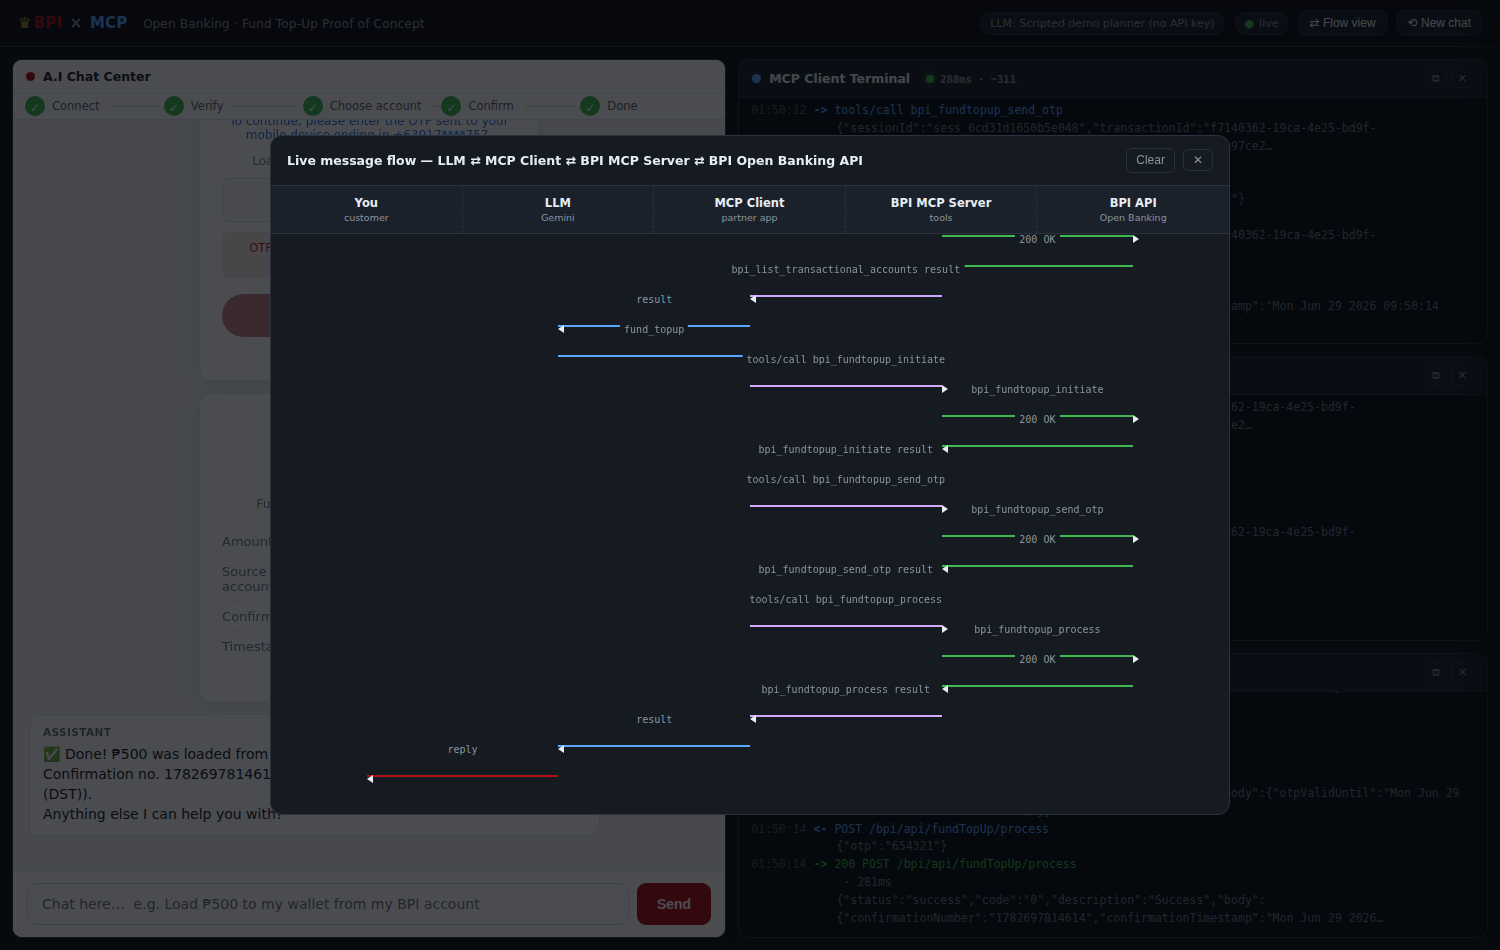
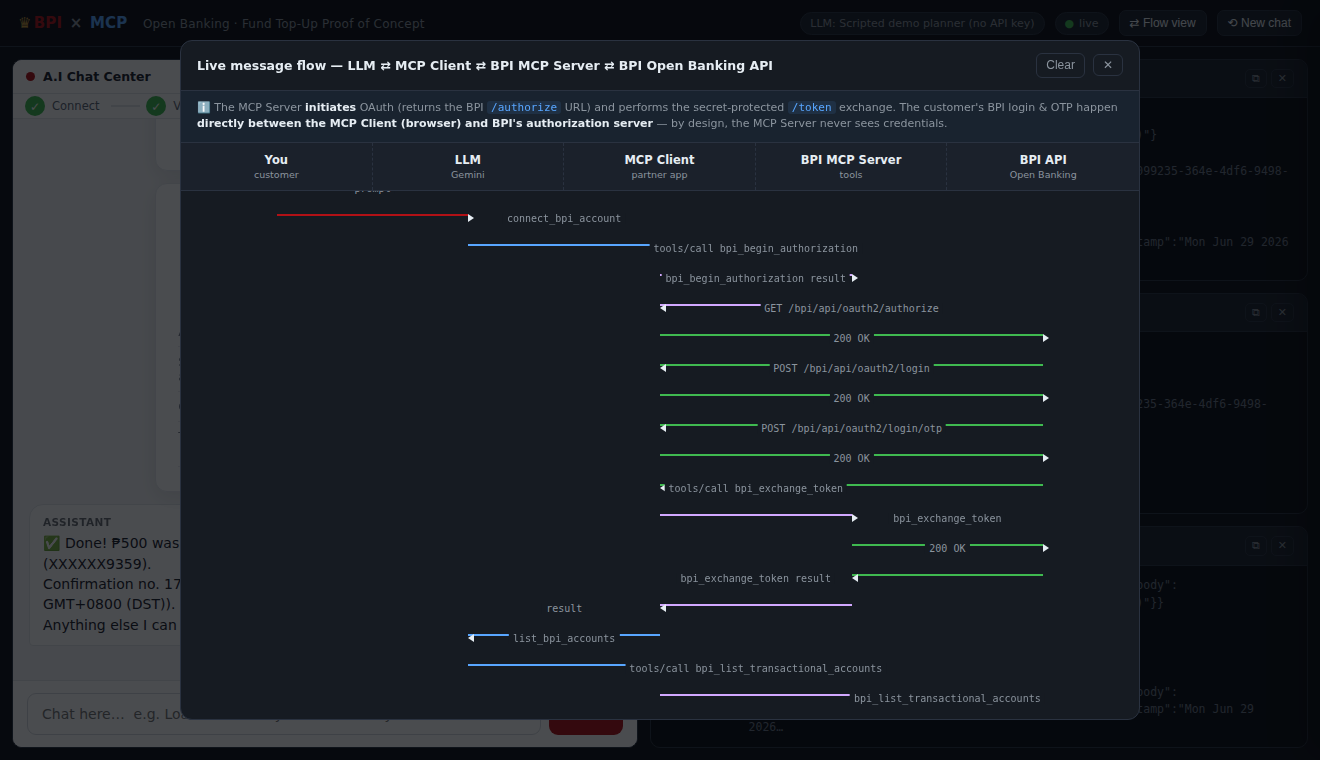
Have the MCP server initiate OAuth (bpi_begin_authorization) + flow-view note
Addresses the question of why login bypassed the MCP server. Now:
- New MCP tool bpi_begin_authorization: the BPI MCP server (owner of
  client_id/scopes) returns the hosted /authorize URL, so the OAuth handshake
  visibly starts at the server in the sequence diagram.
- The customer's login + OTP still go directly Client⇄BPI (the server never
  sees credentials), and the secret-protected code→token exchange stays
  server-side — aligning with the MCP authorization model.
- Flow view gains an explanatory note describing this split.
- README architecture updated; flow-view screenshot refreshed to show the
  OAuth initiation.

Claude-Session: https://claude.ai/code/session_01A6iezZkqvv1e5yNwwgcSss

diff --git a/server/orchestrator.js b/server/orchestrator.js
@@ -81,7 +81,7 @@ const pace = () => (PACE_MS > 0 ? sleep(PACE_MS) : Promise.resolve());
 
 // One MCP tool call, with both sides narrated on the MCP Client terminal and
 // mirrored as arrows on the live sequence diagram.
-async function mcpCall(ws, name, args) {
+async function mcpCall(ws, name, args, { apiHop = true } = {}) {
   await pace();
   const t0 = Date.now();
   log(CHANNELS.MCP_CLIENT, { level: 'req', dir: '->', text: `tools/call ${name}`, data: redactArgs(args) });
@@ -89,9 +89,12 @@ async function mcpCall(ws, name, args) {
   const res = await mcp.callTool({ name, arguments: args });
   const payload = JSON.parse(res.content?.[0]?.text || '{}');
   const ms = Date.now() - t0;
-  // Each of these MCP tools maps 1:1 to one upstream Open Banking API call.
-  flow(ws, 'SERVER', 'API', name);
-  flow(ws, 'API', 'SERVER', res.isError ? 'error' : '200 OK');
+  // Most BPI MCP tools map 1:1 to one upstream Open Banking API call; a few
+  // (e.g. bpi_begin_authorization) only build/return data and hit no API.
+  if (apiHop) {
+    flow(ws, 'SERVER', 'API', name);
+    flow(ws, 'API', 'SERVER', res.isError ? 'error' : '200 OK');
+  }
   if (res.isError) {
     log(CHANNELS.MCP_CLIENT, { level: 'err', dir: '<-', text: `tools/call ${name} error`, data: payload, ms });
     flow(ws, 'SERVER', 'CLIENT', 'error');
@@ -270,17 +273,24 @@ function runTool(ws, name, args) {
 
 async function connectBpi(ws) {
   if (ws.state.connected) { markConnectedSteps(ws); return { status: 'already_connected', scope: ws.state.scope }; }
-  const scope = 'transactionalAccountsForBillsPay fundTopUp';
   const state = crypto.randomBytes(12).toString('hex');
   step(ws, 'connect', 'active');
 
-  // Front-channel: the partner app opens BPI's hosted /authorize (login) page.
-  log(CHANNELS.MCP_CLIENT, { level: 'info', text: 'OAuth: opening BPI /authorize (front-channel browser)…' });
-  await bpiFront(ws, 'GET', `/bpi/api/oauth2/authorize?response_type=code&client_id=${process.env.BPI_CLIENT_ID || 'a3f7832f-0f15-46e2-9070-29e6e89f2c2e'}&scope=${encodeURIComponent(scope)}&redirect_uri=https://partner.example/callback&state=${state}`);
+  // The MCP server owns the client_id + scopes and initiates the OAuth handshake:
+  // it returns the hosted BPI /authorize URL for the partner app to open.
+  const authz = await mcpCall(ws, 'bpi_begin_authorization', { state }, { apiHop: false });
+  const scope = authz.scope;
+
+  // Front-channel: the partner app opens that /authorize URL in a browser. The
+  // customer's credentials/OTP are entered on BPI's page — the MCP server never
+  // sees them.
+  log(CHANNELS.MCP_CLIENT, { level: 'info', text: 'OAuth: opening BPI /authorize URL from MCP server (front-channel browser)…' });
+  const u = new URL(authz.authorizeUrl);
+  await bpiFront(ws, 'GET', u.pathname + u.search);
 
   // Screen 1: BPI login.
   const creds = await askUI(ws, 'login', { partner: PARTNER, scope });
-  const login = await bpiFront(ws, 'POST', '/bpi/api/oauth2/login', { username: creds.username, password: creds.password, scope, state });
+  const login = await bpiFront(ws, 'POST', '/bpi/api/oauth2/login', { username: creds.username, password: creds.password, scope, state: authz.state });
   step(ws, 'connect', 'done');
 
   // Screen 2: login OTP.

diff --git a/server/bpi-mcp-server.js b/server/bpi-mcp-server.js
@@ -45,6 +45,18 @@ async function bpiFetch(method, path, { headers = {}, json, form, bearer, transa
 
 const TOOLS = [
   {
+    name: 'bpi_begin_authorization',
+    description: 'Begin BPI 3-Legged OAuth. The BPI MCP server (which owns the client_id and the requested scopes) returns the hosted BPI /authorize URL that the partner app should open in a browser/webview for the customer to log in and consent. The customer\'s credentials are entered directly on the BPI page and are never seen by this server.',
+    inputSchema: {
+      type: 'object',
+      properties: {
+        state: { type: 'string', description: 'Opaque CSRF state value (optional; generated if omitted)' },
+        redirectUri: { type: 'string', description: 'Partner redirect URI registered during onboarding (optional)' },
+      },
+      required: [],
+    },
+  },
+  {
     name: 'bpi_exchange_token',
     description: 'Complete BPI 3-Legged OAuth by exchanging the authorization code for an access token. Returns an opaque sessionId to use in subsequent BPI tool calls. The access token is held securely by the BPI MCP server and never exposed.',
     inputSchema: {
@@ -137,6 +149,20 @@ function requireSession(sessionId) {
 
 async function dispatch(name, args) {
   switch (name) {
+    case 'bpi_begin_authorization': {
+      // The server constructs the authorize URL from the credentials it owns.
+      // No upstream call yet — the customer opens this URL in their browser.
+      const scope = 'transactionalAccountsForBillsPay fundTopUp';
+      const redirectUri = args.redirectUri || 'https://partner.example/callback';
+      const state = args.state || crypto.randomBytes(12).toString('hex');
+      const authorizeUrl = `${BPI_API_URL}/bpi/api/oauth2/authorize?response_type=code` +
+        `&client_id=${encodeURIComponent(CLIENT_ID)}` +
+        `&scope=${encodeURIComponent(scope)}` +
+        `&redirect_uri=${encodeURIComponent(redirectUri)}` +
+        `&state=${encodeURIComponent(state)}`;
+      slog('info', `Authorization initiated by MCP server. scope="${scope}" — returning hosted /authorize URL to client.`);
+      return { authorizeUrl, scope, state, redirectUri };
+    }
     case 'bpi_exchange_token': {
       const r = await bpiFetch('POST', '/bpi/api/oauth2/token', {
         form: { grant_type: 'authorization_code', code: args.code, client_id: CLIENT_ID, client_secret: CLIENT_SECRET },

diff --git a/public/styles.css b/public/styles.css
@@ -208,6 +208,9 @@ body {
 .flow-head { display: flex; align-items: center; justify-content: space-between; padding: 12px 16px; border-bottom: 1px solid var(--border); font-size: 12.5px; font-weight: 600; }
 .flow-actions { display: flex; gap: 8px; align-items: center; }
 .flow-actions button { background: transparent; border: 1px solid var(--border); color: var(--muted); border-radius: 6px; font-size: 12px; padding: 3px 9px; cursor: pointer; }
+.flow-note { margin: 0; padding: 9px 16px; font-size: 11px; line-height: 1.5; color: var(--muted); background: rgba(88,166,255,.06); border-bottom: 1px solid var(--border); }
+.flow-note b { color: var(--text); font-weight: 600; }
+.flow-note code { font-family: 'JetBrains Mono', monospace; color: var(--c-client); background: rgba(88,166,255,.1); padding: 0 4px; border-radius: 3px; }
 .flow-stage { position: relative; flex: 1; overflow-y: auto; padding: 0; }
 .flow-lifelines { position: sticky; top: 0; display: grid; grid-template-columns: repeat(5, 1fr); background: var(--panel-2); border-bottom: 1px solid var(--border); z-index: 2; }
 .flow-lifelines .ll { text-align: center; padding: 10px 4px; font-size: 11.5px; font-weight: 700; color: var(--text); border-right: 1px dashed var(--border); }

diff --git a/public/index.html b/public/index.html
@@ -80,6 +80,7 @@
         <span>Live message flow — LLM ⇄ MCP Client ⇄ BPI MCP Server ⇄ BPI Open Banking API</span>
         <span class="flow-actions"><button id="flow-clear" class="tbtn">Clear</button><button id="flow-close" title="Close">✕</button></span>
       </div>
+      <p class="flow-note">ℹ The MCP Server <b>initiates</b> OAuth (returns the BPI <code>/authorize</code> URL) and performs the secret-protected <code>/token</code> exchange. The customer's BPI login &amp; OTP happen <b>directly between the MCP Client (browser) and BPI's authorization server</b> — by design, the MCP Server never sees credentials.</p>
       <div class="flow-stage">
         <div id="flow-lifelines" class="flow-lifelines"></div>
         <div id="flow-arrows" class="flow-arrows"></div>

diff --git a/README.md b/README.md
@@ -48,7 +48,8 @@ Browser (4 panels) ──WebSocket──┐
                   │ stdio (stdout=JSON-RPC, stderr=logs)
   ┌───────────────▼─────────────────────────────┐
   │ BPI MCP SERVER  (server/bpi-mcp-server.js)   │  real @modelcontextprotocol/sdk server
-  │   tools: bpi_exchange_token,                 │  keeps OAuth tokens server-side
+  │   tools: bpi_begin_authorization,            │  owns client_id/secret;
+  │          bpi_exchange_token,                 │  keeps OAuth tokens server-side
   │          bpi_list_transactional_accounts,    │
   │          bpi_fundtopup_{initiate,send_otp,   │
   │                         process,status}      │
@@ -65,10 +66,14 @@ Browser (4 panels) ──WebSocket──┐
 * The **MCP Client** and **MCP Server** speak the real Model Context Protocol
   (`@modelcontextprotocol/sdk`) over stdio. The server runs as a separate child
   process — genuinely separate components, not a mock.
-* OAuth **front‑channel** steps (the login/OTP pages) are driven by the chat UI,
-  matching how 3‑Legged OAuth keeps credentials away from the partner app. The
-  **back‑channel** `code → token` exchange and all transactional calls go
-  *through MCP*.
+* **3‑Legged OAuth, MCP‑aligned:** the **MCP Server initiates** authorization
+  (`bpi_begin_authorization` returns BPI's hosted `/authorize` URL — it owns the
+  `client_id`/scopes). The customer's **login + OTP happen directly between the
+  MCP Client (browser) and BPI's authorization server** — the MCP Server never
+  sees credentials, per the MCP authorization model. The secret‑protected
+  `code → token` exchange (which needs `client_secret`) and all transactional
+  calls then go **through MCP**, with the access token held server‑side so the
+  LLM never handles raw bearer tokens. Open the **⇄ Flow view** to see this.
 * The Open Banking API is a faithful **mock** of the contract responses — no
   real BPI systems are contacted.
 
